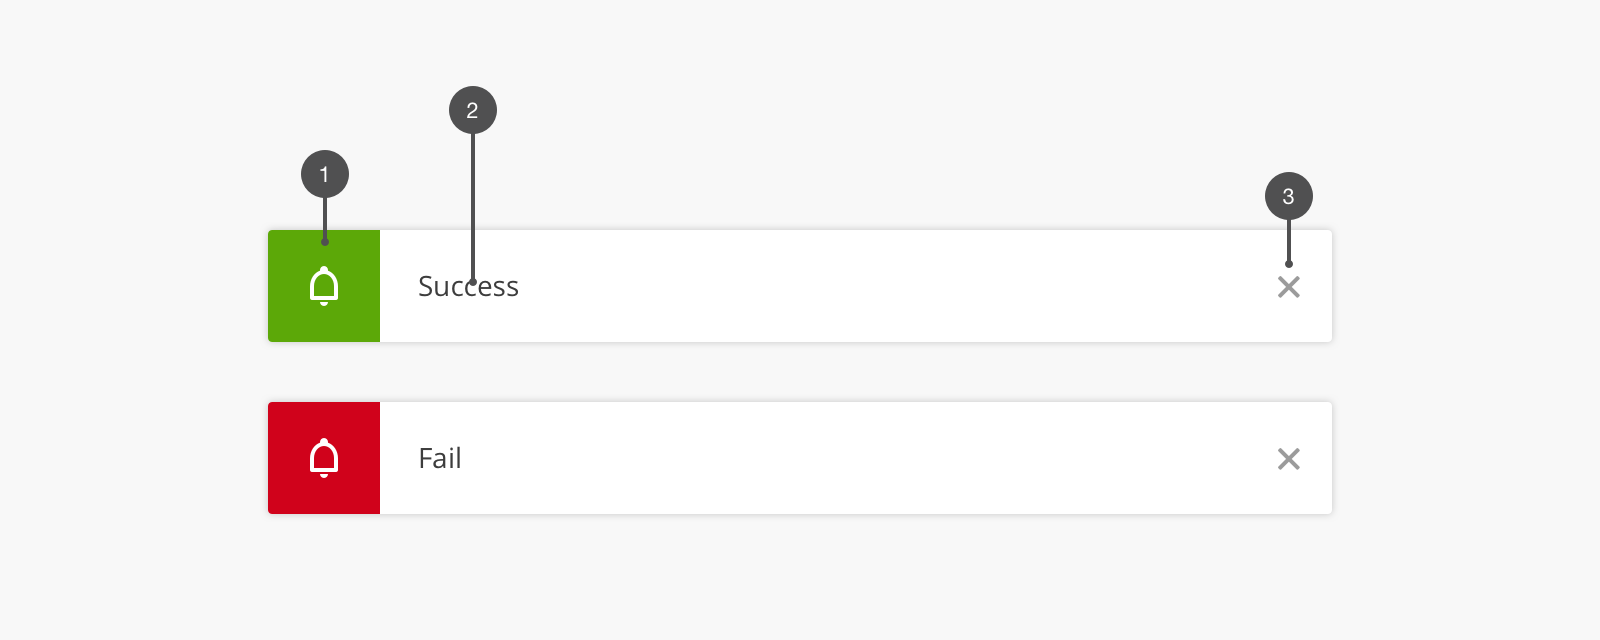
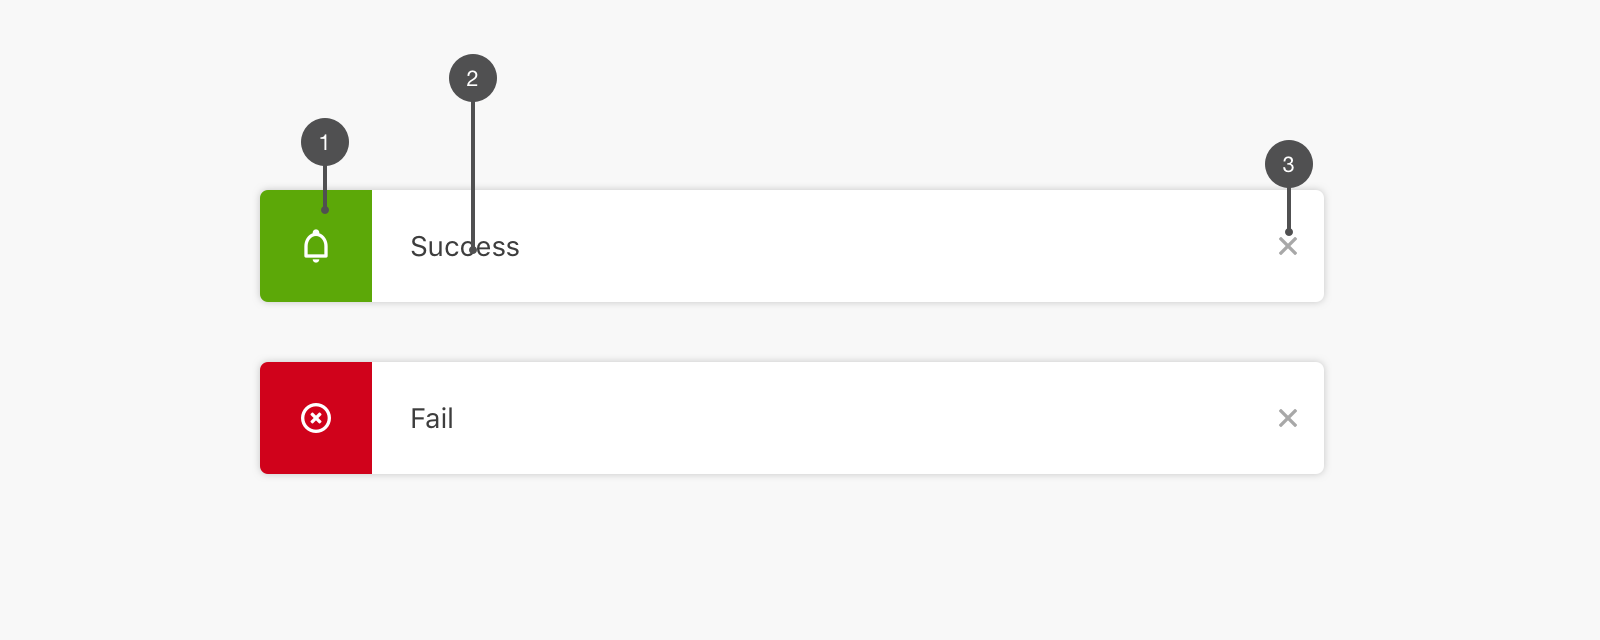
style: update toaster picture and style

diff --git a/packages/kotti-toaster/KtToaster.vue b/packages/kotti-toaster/KtToaster.vue
@@ -6,7 +6,7 @@
 			class="vue-yodify__notification"
 		>
 			<div :class="iconClass(notification.type)">
-				<i class="yoco" v-text="'bell'" />
+				<i class="yoco" v-text="iconText(notification.type)" />
 			</div>
 			<div class="vue-yodify__content" v-text="notification.text" />
 			<div
@@ -38,6 +38,11 @@ export default {
 		},
 		iconClass(notificationStatus) {
 			return `vue-yodify__icon vue-yodify__icon--${notificationStatus}`
+		},
+		iconText(type) {
+			if (type === 'error') return 'circle_cross'
+			if (type === 'warning') return 'circle_attention'
+			return 'circle_check'
 		},
 	},
 	created() {

diff --git a/docs/pages/components/toaster.vue b/docs/pages/components/toaster.vue
@@ -26,7 +26,7 @@ Since `Kotti-UI 1.0.0`, [vue-yodify](https://github.com/3YOURMIND/vue-yodify) is
 	<KtToaster/>
 	<KtButton
 		@click="$yodify({ text: 'Wow very looooooooooooong text, and it breaks the line!', type: 'success' })"
-		v-text="'Long Message'"
+		v-text="'Success Long Message'"
 	/>
 	<KtButton
 		@click="$yodify({ text: 'Error message', type: 'error' })"
